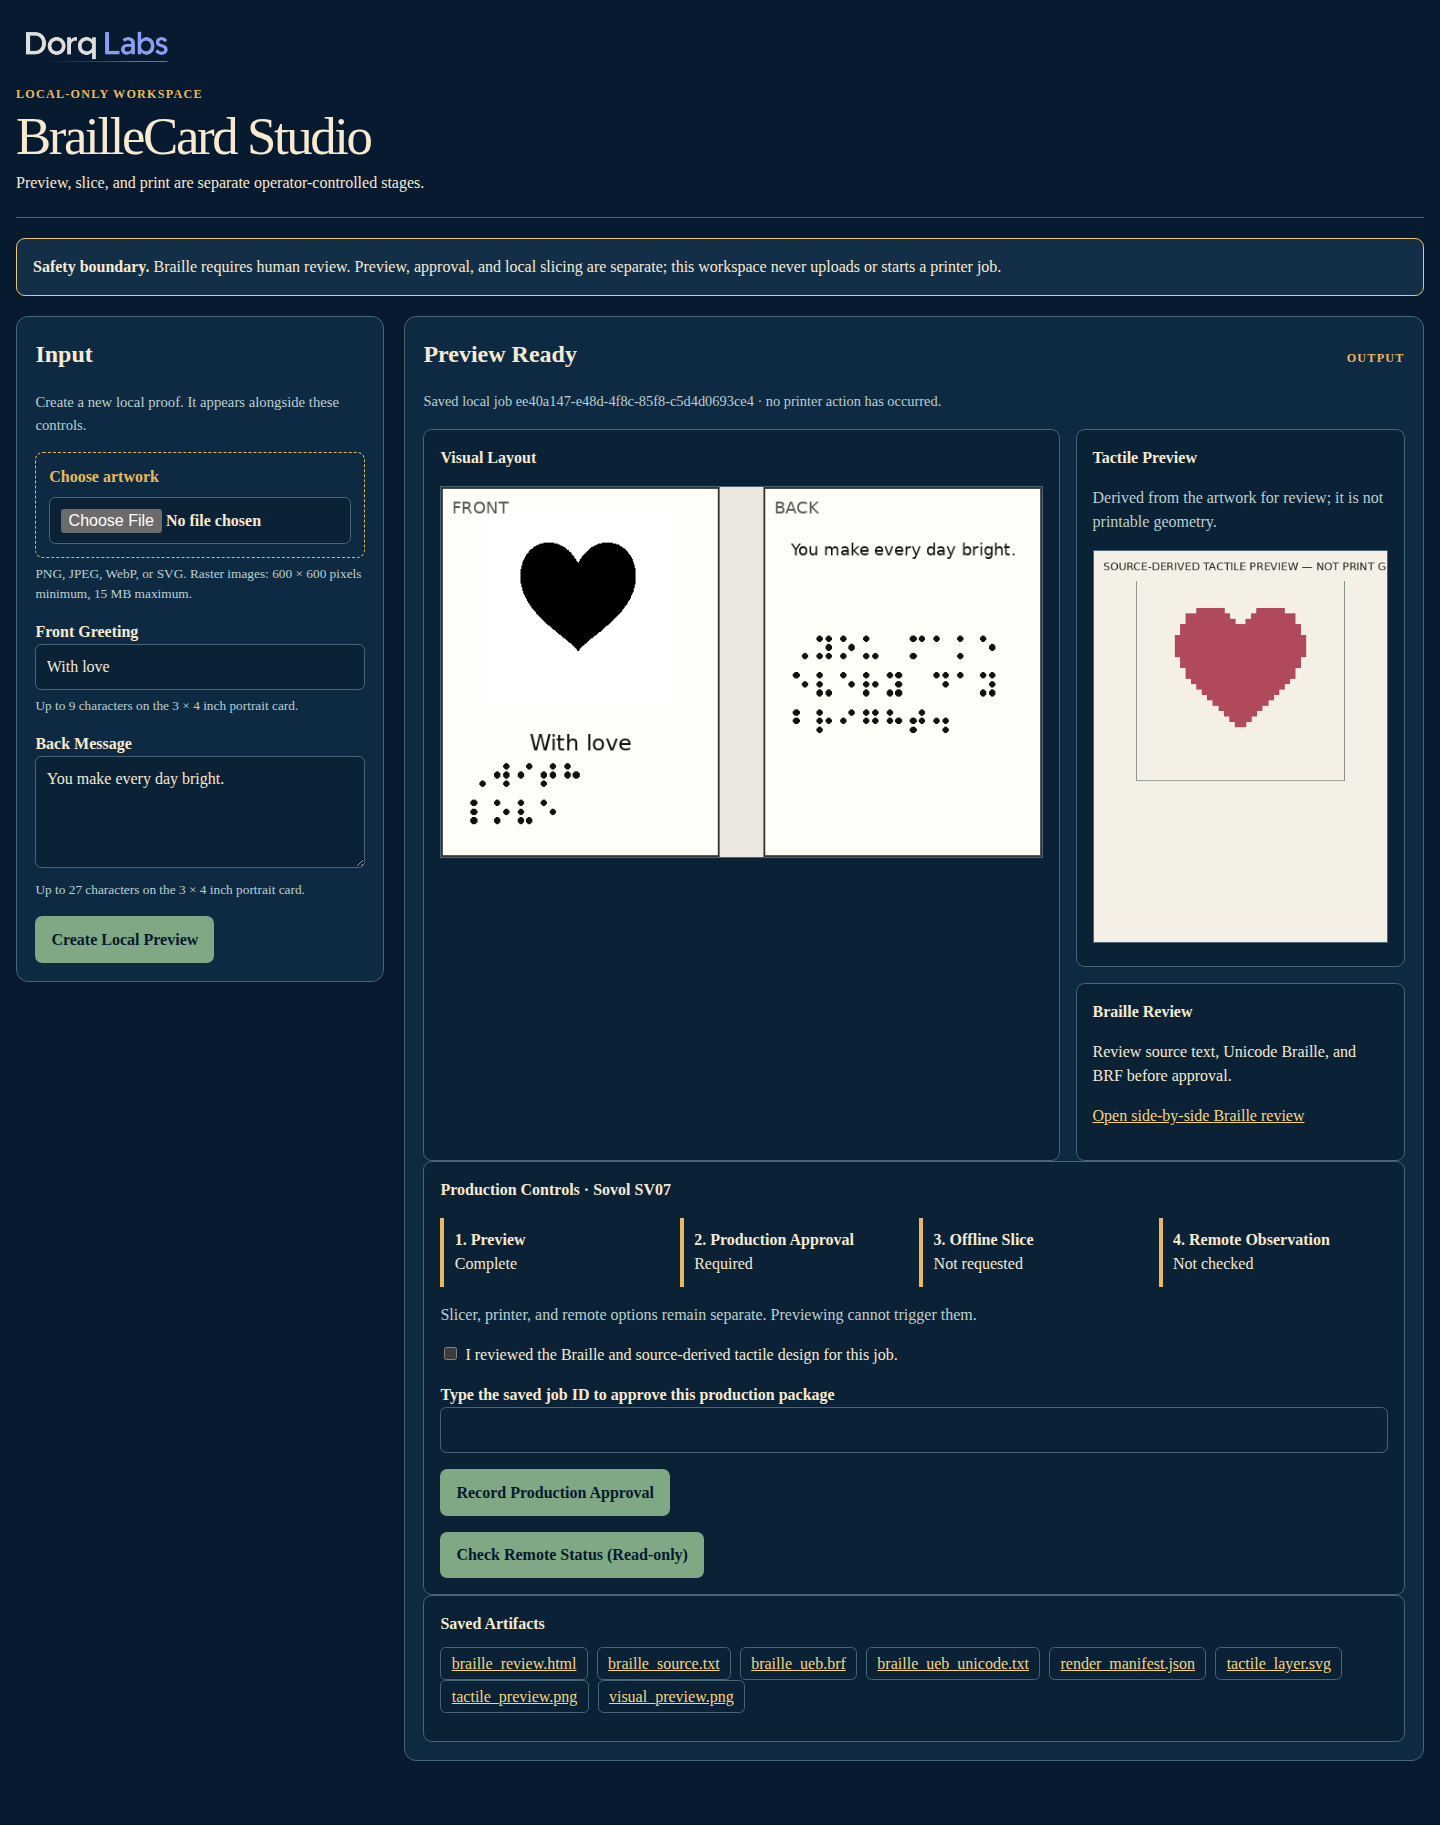
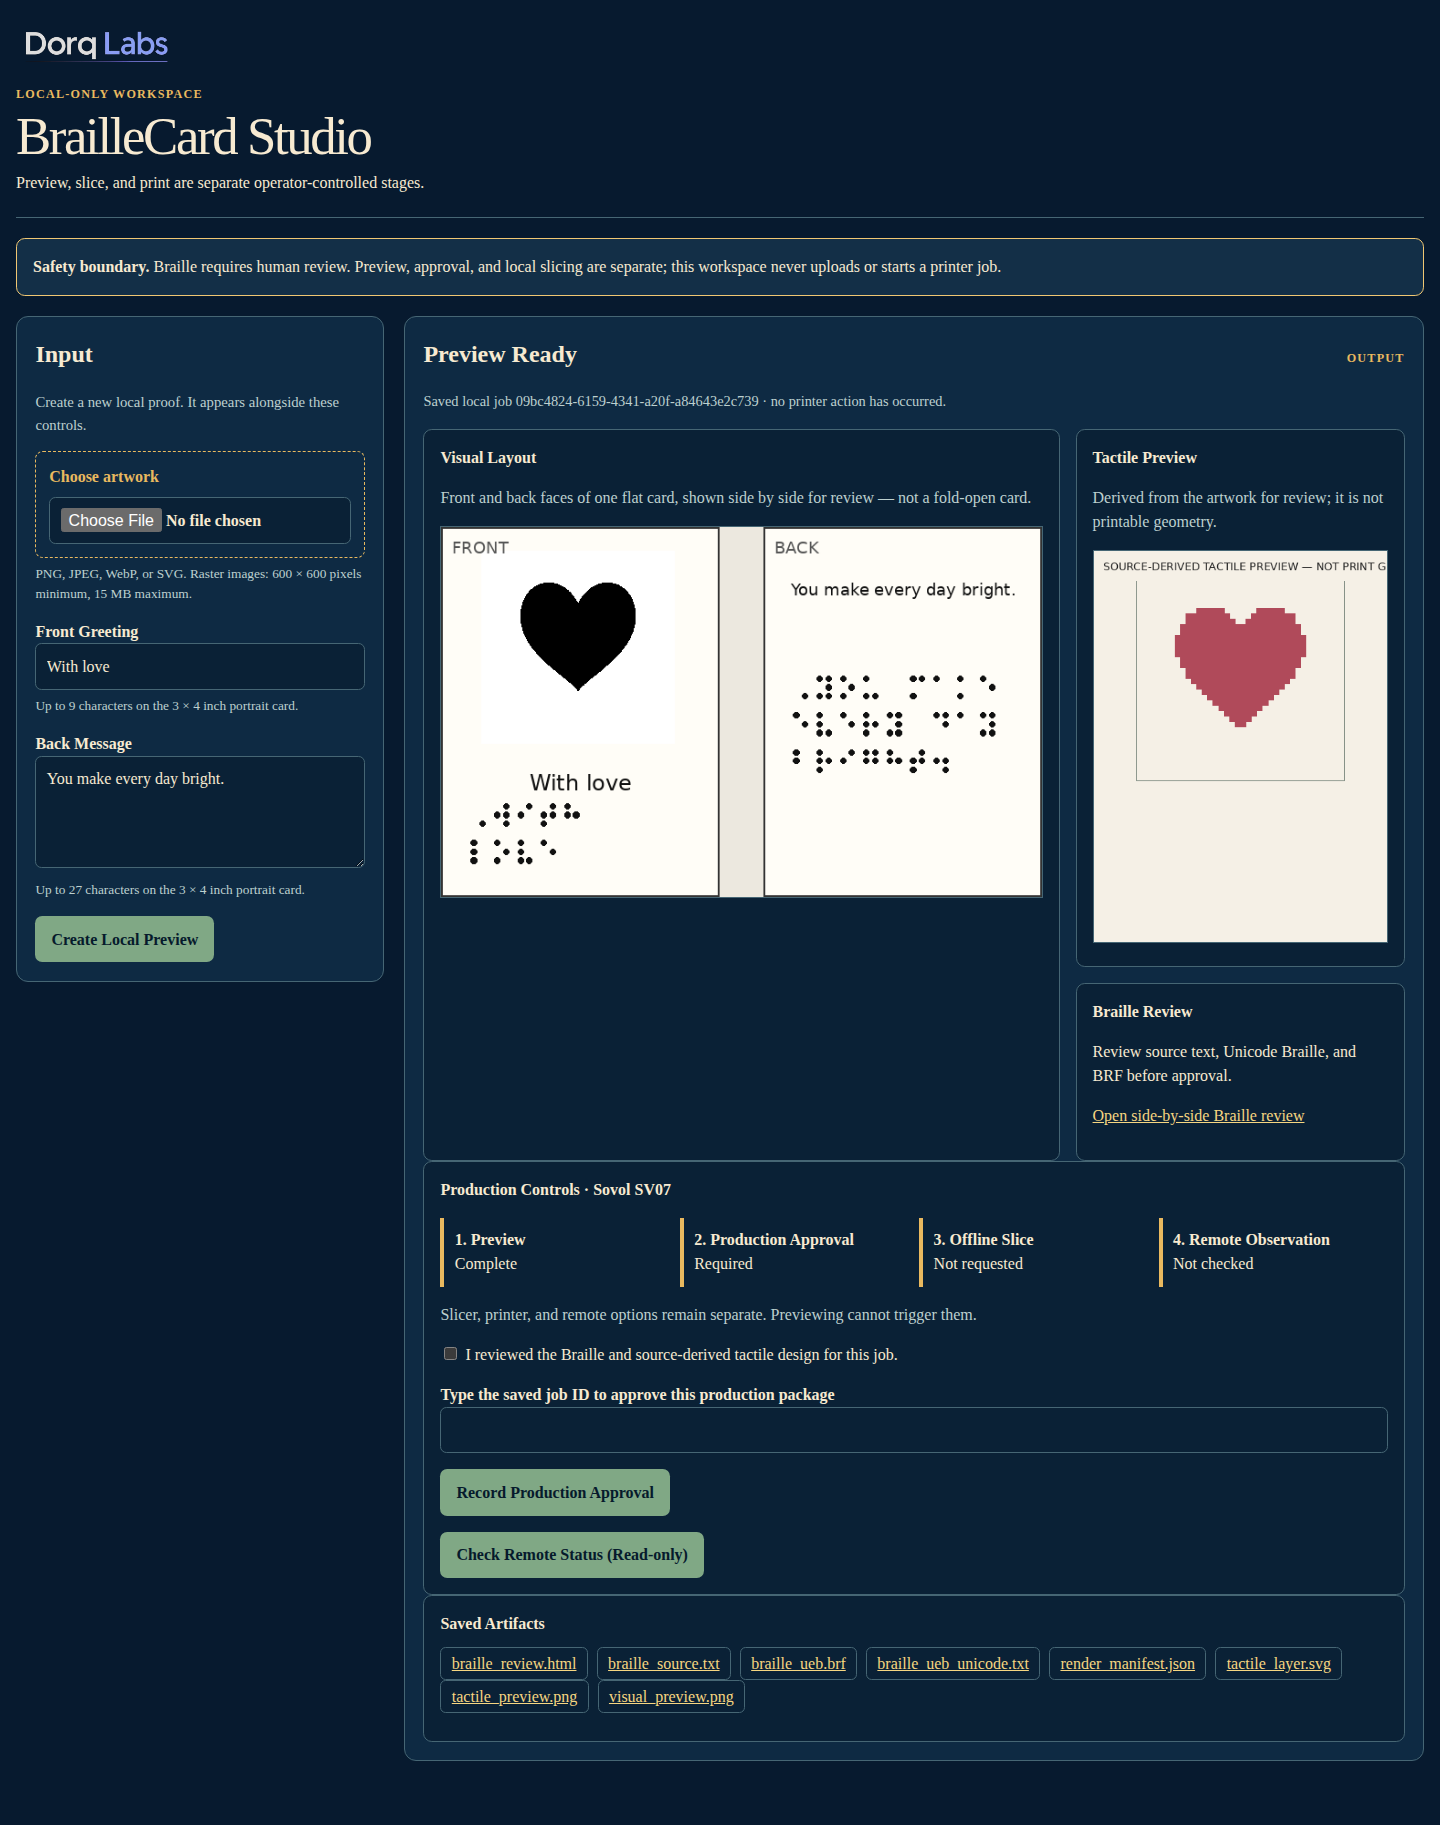
fix(web): correct stale image dimensions and clarify one-panel layout
The Studio's visual/tactile preview <img> tags hardcoded pixel dimensions
left over from an earlier 5x7 card template. They no longer matched the
actual generated PNGs (visual_preview.png was 658x406, not 1064x711;
tactile_preview.png was 381x508, not 635x889), so browsers stretched both
images non-uniformly using the wrong aspect ratio. Corrected both to the
current 3x4 template's actual output dimensions.

Also added a one-line caption above the visual layout making explicit that
front/back are two faces of one flat card shown side by side for review,
not an openable folded card — the physical product has no hinge.

Changed region(s): [[0.2812, 0.2186, 0.7188, 0.4373], [0.2812, 0.406, 0.75, 0.4997]]

diff --git a/src/braille_card/web.py b/src/braille_card/web.py
@@ -69,7 +69,7 @@ PAGE = """<!doctype html>
       {% if job %}
         <section class="panel output" aria-labelledby="output-title"><div class="output-head"><div><h2 id="output-title">Preview Ready</h2><p>Saved local job {{ job.job_id }} · no printer action has occurred.</p></div><span class="kicker">Output</span></div>
           {% if job.action_message %}<section class="notice" aria-live="polite">{{ job.action_message }}</section>{% endif %}
-          <div class="proof-grid"><article class="card-panel"><h3>Visual Layout</h3><img class="art" width="1064" height="711" fetchpriority="high" src="{{ url_for('artifact', job_id=job.job_id, name='visual_preview.png') }}" alt="Front and back visual card preview"></article><div class="side-stack"><article class="card-panel"><h3>Tactile Preview</h3><p class="muted">Derived from the artwork for review; it is not printable geometry.</p><img class="art" width="635" height="889" loading="lazy" src="{{ url_for('artifact', job_id=job.job_id, name='tactile_preview.png') }}" alt="Source-derived tactile interpretation preview"></article><article class="card-panel"><h3>Braille Review</h3><p>Review source text, Unicode Braille, and BRF before approval.</p><p><a href="{{ url_for('artifact', job_id=job.job_id, name='braille_review.html') }}">Open side-by-side Braille review</a></p></article></div></div>
+          <div class="proof-grid"><article class="card-panel"><h3>Visual Layout</h3><p class="muted">Front and back faces of one flat card, shown side by side for review — not a fold-open card.</p><img class="art" width="658" height="406" fetchpriority="high" src="{{ url_for('artifact', job_id=job.job_id, name='visual_preview.png') }}" alt="Front and back visual card preview"></article><div class="side-stack"><article class="card-panel"><h3>Tactile Preview</h3><p class="muted">Derived from the artwork for review; it is not printable geometry.</p><img class="art" width="381" height="508" loading="lazy" src="{{ url_for('artifact', job_id=job.job_id, name='tactile_preview.png') }}" alt="Source-derived tactile interpretation preview"></article><article class="card-panel"><h3>Braille Review</h3><p>Review source text, Unicode Braille, and BRF before approval.</p><p><a href="{{ url_for('artifact', job_id=job.job_id, name='braille_review.html') }}">Open side-by-side Braille review</a></p></article></div></div>
           <article class="card-panel"><h3>Production Controls · Sovol SV07</h3><div class="stage-grid"><div class="stage"><strong>1. Preview</strong>Complete</div><div class="stage"><strong>2. Production Approval</strong>{% if job.status == 'production_approved' or job.status == 'sliced' %}Recorded{% else %}Required{% endif %}</div><div class="stage"><strong>3. Offline Slice</strong>{% if job.status == 'sliced' %}Complete{% else %}Not requested{% endif %}</div><div class="stage"><strong>4. Remote Observation</strong>{% if job.remote_status %}{% if job.remote_status.connected %}Read-only check completed {{ job.remote_status.checked_at }}{% else %}{{ job.remote_status.message }}{% endif %}{% else %}Not checked{% endif %}</div></div><p class="muted">Slicer, printer, and remote options remain separate. Previewing cannot trigger them.</p>{% if job.status == 'preview_ready' %}<form method="post" action="{{ url_for('approve_production', job_id=job.job_id) }}"><label><input name="braille_and_tactile_reviewed" type="checkbox" value="yes" required>I reviewed the Braille and source-derived tactile design for this job.</label><label class="field-label" for="confirm-job">Type the saved job ID to approve this production package</label><input id="confirm-job" name="confirm_job_id" autocomplete="off" required><button type="submit">Record Production Approval</button></form>{% elif job.status == 'production_approved' %}<form method="post" action="{{ url_for('slice_job', job_id=job.job_id) }}"><p class="muted">This runs the pinned OrcaSlicer profile locally. It does not upload or start a print.</p><button type="submit">Slice Locally for SV07</button></form>{% elif job.status == 'sliced' %}<p class="muted">Offline package created. It has not been uploaded or started.</p><ul class="links">{% for name in job.production.artifacts %}<li><a href="{{ url_for('production_artifact', job_id=job.job_id, name=name) }}">{{ name }}</a></li>{% endfor %}</ul>{% endif %}{% if job.remote_status and job.remote_status.connected %}<p class="muted">Klipper: {{ job.remote_status.klipper_state }} · Print: {{ job.remote_status.print_state }}{% if job.remote_status.filename %} · {{ job.remote_status.filename }}{% endif %}{% if job.remote_status.progress is not none %} · {{ job.remote_status.progress }}%{% endif %}</p>{% endif %}<form method="post" action="{{ url_for('refresh_remote_status', job_id=job.job_id) }}"><button type="submit">Check Remote Status (Read-only)</button></form></article>
           <article class="card-panel"><h3>Saved Artifacts</h3><ul class="links">{% for name in job.artifacts %}<li><a href="{{ url_for('artifact', job_id=job.job_id, name=name) }}">{{ name }}</a></li>{% endfor %}</ul></article>
         </section>